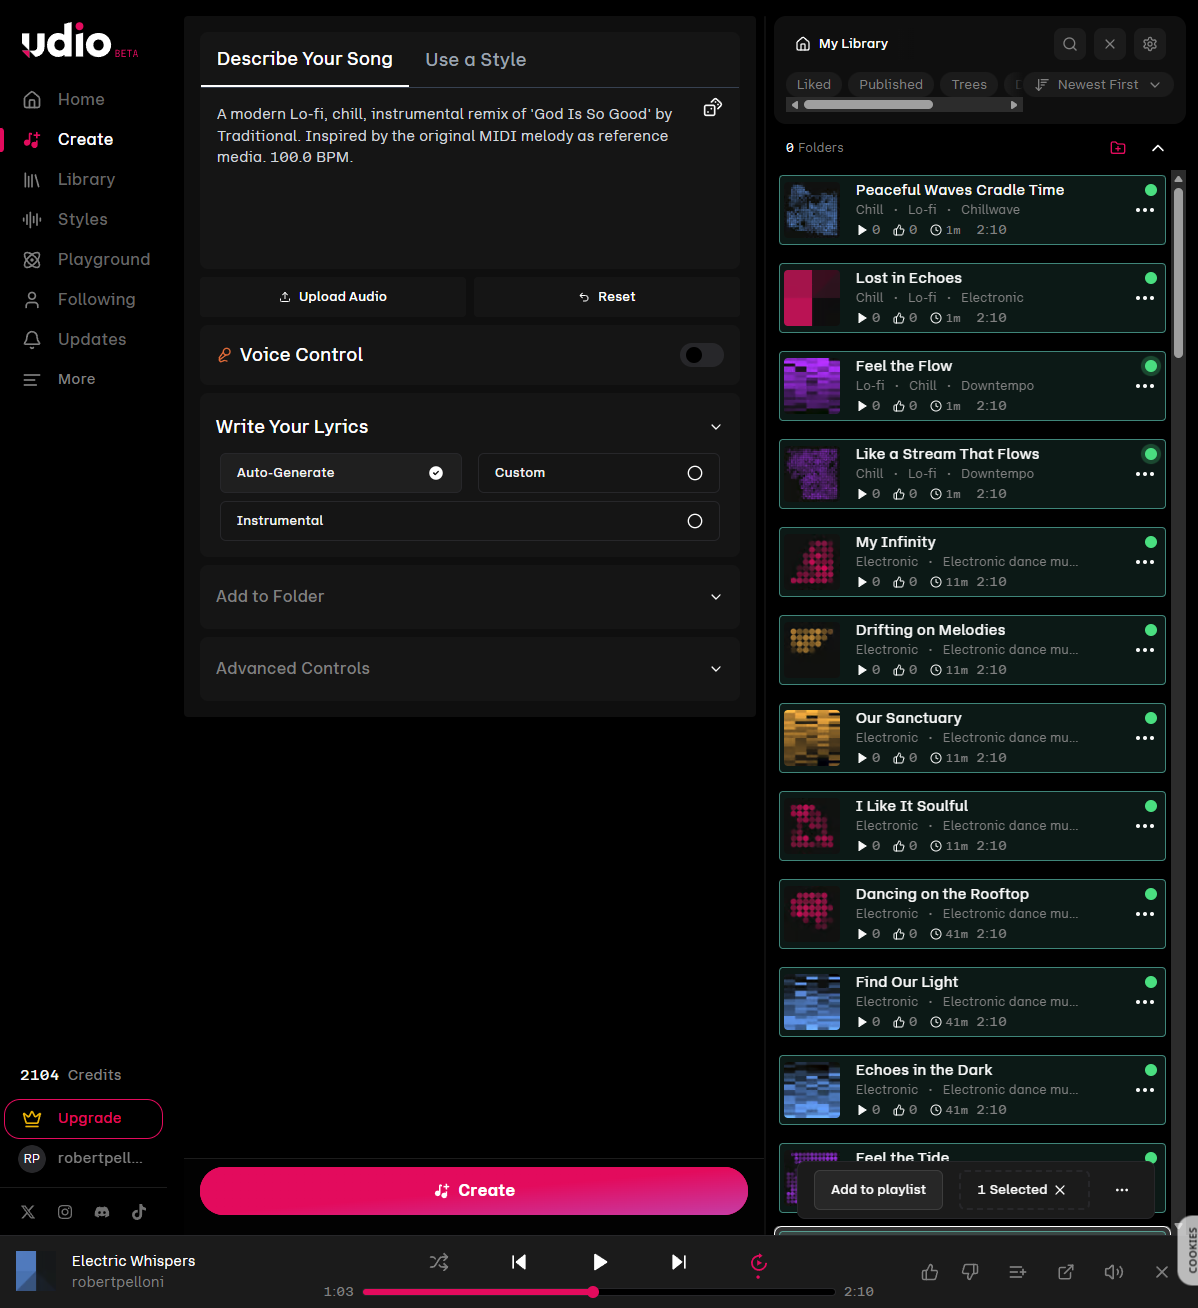
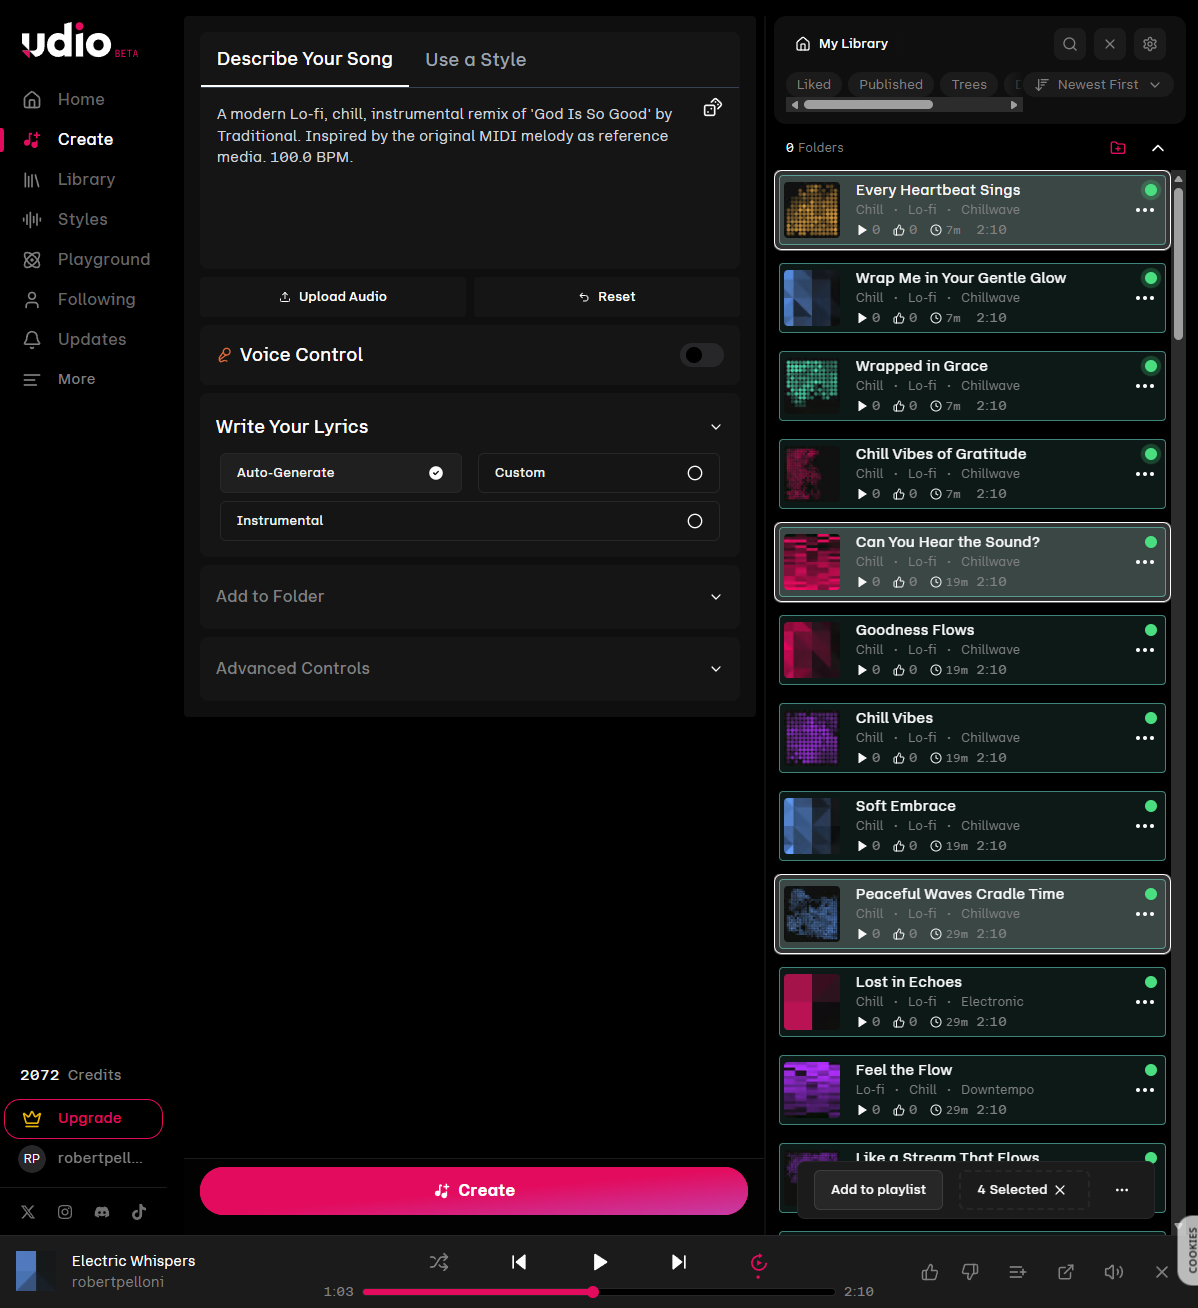
chore: sync uncommitted changes

diff --git a/hymn_remaker/src/udio_browser_automation.py b/hymn_remaker/src/udio_browser_automation.py
@@ -184,10 +184,15 @@ class UdioBrowserAutomation:
         inj_js = """
         (function() {
             let els = Array.from(document.querySelectorAll('textarea, input[type="text"]'));
+            // Broad search for any prompt-like input
             let inp = els.find(el => {
                 let p = (el.placeholder || '').toLowerCase();
-                return p.includes('describe') || p.includes('prompt') || p.includes('imagine') || p.includes('track');
+                let v = (el.value || '').toLowerCase();
+                let isVisible = el.offsetParent !== null;
+                return isVisible && (p.includes('describe') || p.includes('prompt') || p.includes('imagine') || p.includes('track') || p === '');
             });
+            
+            if (!inp && els.length > 0) inp = els[0]; // Desperation fallback
             if (!inp) return "no_input";
             
             const setter = Object.getOwnPropertyDescriptor(inp.tagName === 'TEXTAREA' ? window.HTMLTextAreaElement.prototype : window.HTMLInputElement.prototype, 'value').set;
@@ -195,12 +200,14 @@ class UdioBrowserAutomation:
             inp.dispatchEvent(new Event('input', { bubbles: true }));
             inp.dispatchEvent(new Event('change', { bubbles: true }));
 
-            let buttons = Array.from(document.querySelectorAll('button, [role="button"]'));
+            let buttons = Array.from(document.querySelectorAll('button, [role="button"], div.cursor-pointer'));
             let btn = buttons.find(b => {
                 let t = (b.textContent || '').toLowerCase().trim();
-                let cls = (typeof b.className === 'string') ? b.className : (b.className?.baseVal || '');
-                return (t === 'create' || t === 'generate' || t === 'remix') && !cls.includes('opacity-50') && b.offsetParent !== null;
+                let isVisible = b.offsetParent !== null;
+                // Don't check className for opacity-50 as Tailwind utilities always include it
+                return isVisible && (t === 'create' || t === 'generate' || t === 'remix') && !b.disabled;
             });
+            
             if (!btn) return "no_button";
             
             btn.click();

diff --git a/debug_buttons.py b/debug_buttons.py
@@ -1,0 +1,19 @@
+import json
+import logging
+from hymn_remaker.src.udio_browser_automation import UdioBrowserAutomation
+
+logging.basicConfig(level=logging.INFO)
+u = UdioBrowserAutomation()
+tab = u._get_active_tab()
+if tab:
+    ws_url = tab['webSocketDebuggerUrl']
+    script = 'JSON.stringify(Array.from(document.querySelectorAll("button, [role=\'button\'], div.cursor-pointer")).map(b => ({t: (b.textContent || "").trim(), c: (typeof b.className === "string") ? b.className : ""})))'
+    res = u.execute_js(ws_url, script)
+    buttons = json.loads(res)
+    for b in buttons:
+        if b['t'] in ['Create', 'Remix', 'Generate']:
+            print(f"FOUND: {b}")
+        elif 'create' in b['t'].lower() or 'remix' in b['t'].lower():
+             print(f"POTENTIAL: {b}")
+else:
+    print("No Udio tab found.")
